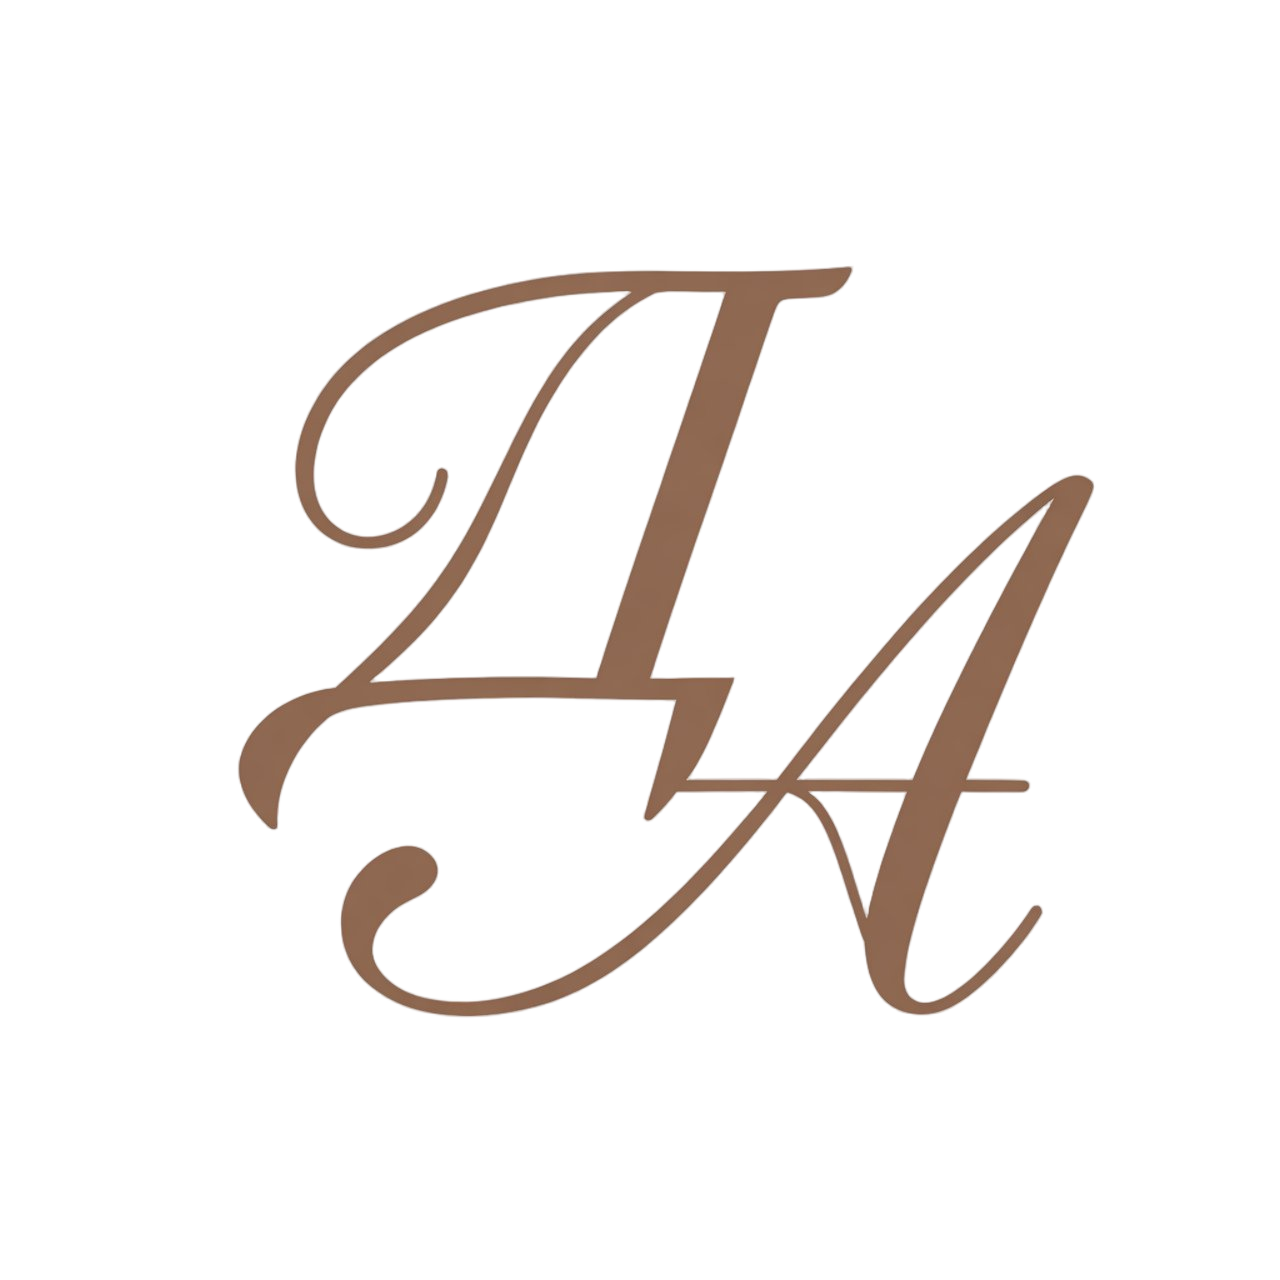
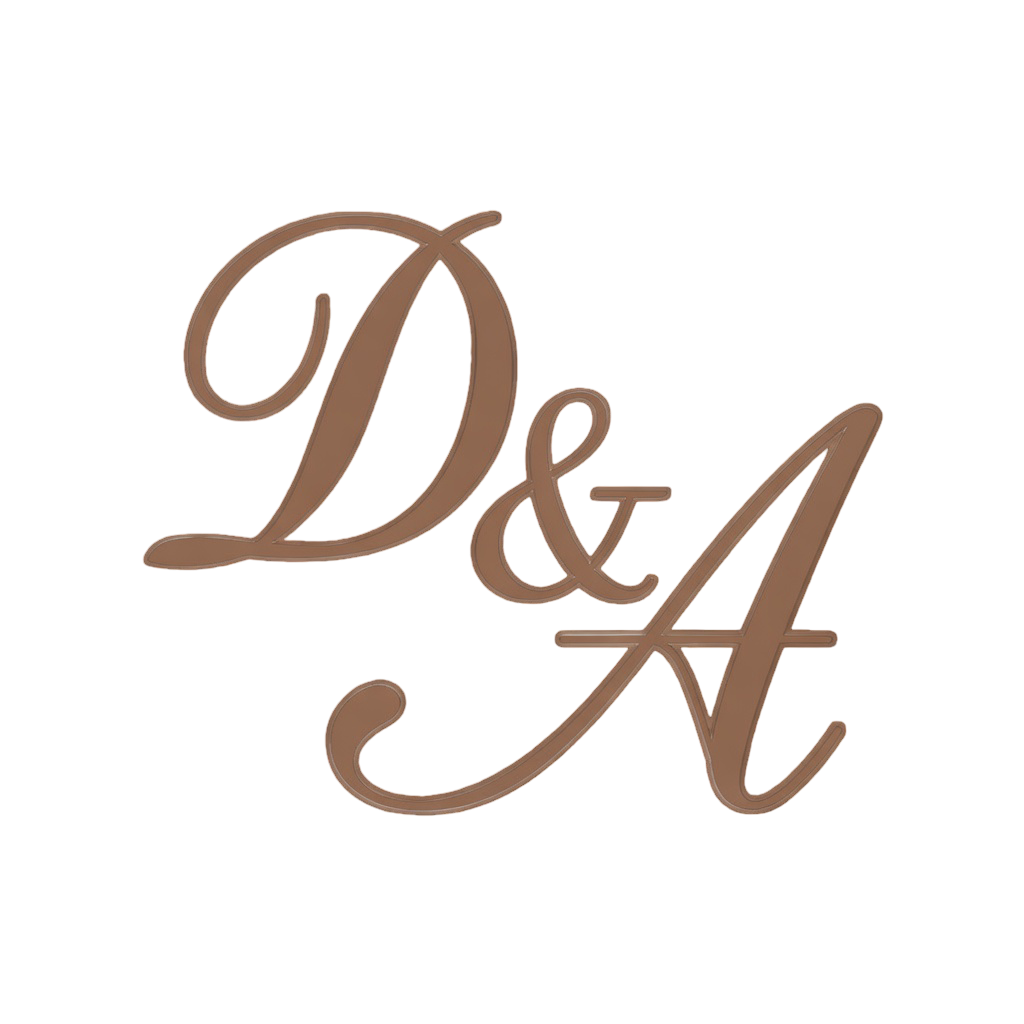
Add files via upload

Changed region(s): [[0.125, 0.1875, 0.875, 0.8125]]

diff --git a/index.html b/index.html
@@ -1075,9 +1075,26 @@
             data-field-heightunits-value="px" data-field-widthunits-value="px" data-field-top-res-320-value="50"
             data-field-left-res-320-value="0" data-field-height-res-320-value="510"
             data-field-width-res-320-value="320">
-            <div class="tn-atom t-bgimg"
-              data-original="images/tild3562-3237-4339-a430-333463303939_3d36b3811ad5c71e6622.jpg" aria-label=""
-              role="img"></div>
+            <div class="tn-atom" style="
+    position: relative;
+    width: 100%;
+    height: 100%;
+    padding: 20px;
+    box-sizing: border-box;
+  ">
+              <div style="
+      position: absolute;
+      top: 20px;
+      left: 20px;
+      right: 20px;
+      bottom: 20px;
+      background-image: url('images/tild3562-3237-4339-a430-333463303939_3d36b3811ad5c71e6622.jpg');
+      background-position: center center;
+      background-size: cover;
+      background-repeat: no-repeat;
+      border-radius: 15px;
+    "></div>
+            </div>
           </div>
           <div class="t396__elem tn-elem tn-elem__11255793611750676938654 t-animate" data-elem-id="1750676938654"
             data-elem-type="text" data-field-top-value="767" data-field-left-value="320" data-field-height-value="104"
@@ -1961,6 +1978,16 @@
             <div class="tn-atom t-bgimg"
               data-original="images/tild6336-3764-4632-b730-393235313935_1435929392_auto_x2_1.webp" aria-label=""
               role="img"></div>
+          </div>
+          <div class="t396__elem tn-elem tn-elem__11256117861750836405397 t-animate" data-elem-id="1750836405397"
+            data-elem-type="shape" data-field-top-value="321" data-field-left-value="308" data-field-height-value="584"
+            data-field-width-value="584" data-field-axisy-value="top" data-field-axisx-value="left"
+            data-field-container-value="grid" data-field-topunits-value="px" data-field-leftunits-value="px"
+            data-field-heightunits-value="px" data-field-widthunits-value="px" data-animate-style="fadeinup"
+            data-animate-duration="4" data-animate-distance="20" data-animate-mobile="y"
+            data-field-top-res-320-value="337" data-field-left-res-320-value="0" data-field-height-res-320-value="325"
+            data-field-width-res-320-value="320">
+            <div class="tn-atom t-bgimg" data-original="images/zags.jpeg" aria-label="" role="img"></div>
           </div>
           <div class="t396__elem tn-elem tn-elem__11256117861750676938654 t-animate" data-elem-id="1750676938654"
             data-elem-type="text" data-field-top-value="181" data-field-left-value="320" data-field-height-value="52"
@@ -3139,10 +3166,26 @@
     <!-- t415 -->
     <!-- cover -->
     <div class="t-cover-outer">
-      <div class="t-cover" id="recorddiv1126086541" bgimgfield="img" style="
-       height: 100vh;
-       background-image: url(&quot;images/Airbrush-Image-Enhan.jpeg&quot;);
-      ">
+      <div class="t-cover" id="recorddiv1126086541" style="
+ height: 100vh;
+ position: relative;
+ border-radius: 15px;
+">
+        <!-- Фон с фото и рамкой -->
+        <div style="
+    position: absolute;
+    top: 0;
+    left: 0;
+    width: 100%;
+    height: 100%;
+    background-image: url('images/Airbrush-Image-Enhan.jpeg');
+    background-position: center center;
+    background-size: cover;
+    background-repeat: no-repeat;
+    padding: 30px;
+    box-sizing: border-box;
+  ">
+        </div>
         <div class="t-cover__carrier" id="coverCarry1126086541" data-content-cover-id="1126086541"
           data-display-changed="true" data-content-cover-height="100vh" data-content-cover-parallax=""
           data-content-cover-bg="images/tild6339-3666-4531-b539-386235366361_Airbrush-Image-Enhan.jpg"
@@ -3927,13 +3970,13 @@
                         z-index: -1;
                       }
                     </style>
-                    <div id="videoBackground" style="width: 390px; height: 844px">
+                    <div id="videoBackground" style="width: 690px; height: 844px">
                       <video style="
-               object-fit: cover;
-               background-size: cover;
-               width: 100%;
-               height: 100%;
-              " preload="auto" playsinline="" autoplay="" loop="" muted="">
+                                                           object-fit: cover;
+                                                           background-size: cover;
+                                                           width: 100%;
+                                                           height: 100%;
+                                                          " preload="auto" playsinline="" autoplay="" loop="" muted="">
                         <source src="media/2-1.mp4" type="video/mp4" />
                       </video>
                     </div>
@@ -3972,15 +4015,20 @@
                         z-index: -1;
                       }
                     </style>
-                    <div id="videoBackground">
-                      <video style="
-               object-fit: cover;
-               background-size: cover;
-               width: 120%;
-               height: 120%;
-              " preload="auto" playsinline="" autoplay="" loop="" muted="">
-                        <source src="media/2-1.mp4" type="video/mp4" />
-                      </video>
+                    <div id="videoBackground"
+                      style="position: fixed; top: 0; left: 0; width: 100vw; height: 100vh; z-index: -1; overflow: hidden;">
+                      <img src="media/2-1.jpg" style="
+    position: absolute;
+    top: 50%;
+    left: 50%;
+    transform: translate(-50%, -50%);
+    min-width: 100%;
+    min-height: 100%;
+    width: auto;
+    height: auto;
+    object-fit: cover;
+    display: block;
+  " alt="Фон">
                     </div>
                     <script>
                       $(document).ready(() => {
@@ -4103,6 +4151,34 @@
   @media screen and (max-width: 980px) {
     #rec1125579356 .tn-elem[data-elem-id="1750676238726"] .tn-atom {
       font-size: 3rem !important;
+    }
+  }
+
+  @media screen and (max-width: 768px) {
+    #rec1125579361 .tn-elem[data-elem-id="1750676850797"] {
+      width: 100% !important;
+      max-width: 100% !important;
+      left: 0 !important;
+      right: 0 !important;
+      margin: 0 auto !important;
+    }
+
+    #rec1125579361 .tn-elem[data-elem-id="1750676850797"] .tn-atom {
+      padding: 15px !important;
+    }
+
+    #rec1125579361 .tn-elem[data-elem-id="1750676850797"] .tn-atom>div {
+      top: 15px !important;
+      left: 15px !important;
+      right: 15px !important;
+      bottom: 15px !important;
+      border-radius: 10px !important;
+    }
+  }
+
+  @media screen and (max-width: 480px) {
+    #rec1125579361 .tn-elem[data-elem-id="1750676850797"] .tn-atom {
+      padding: 10px !important;
     }
   }
 </style>